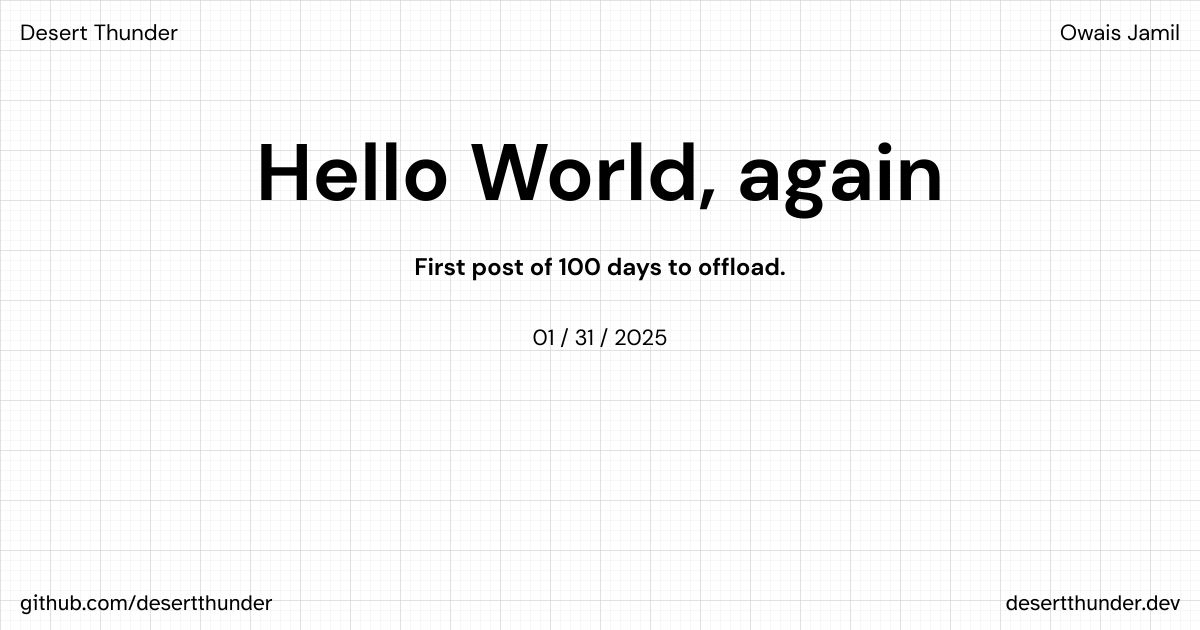
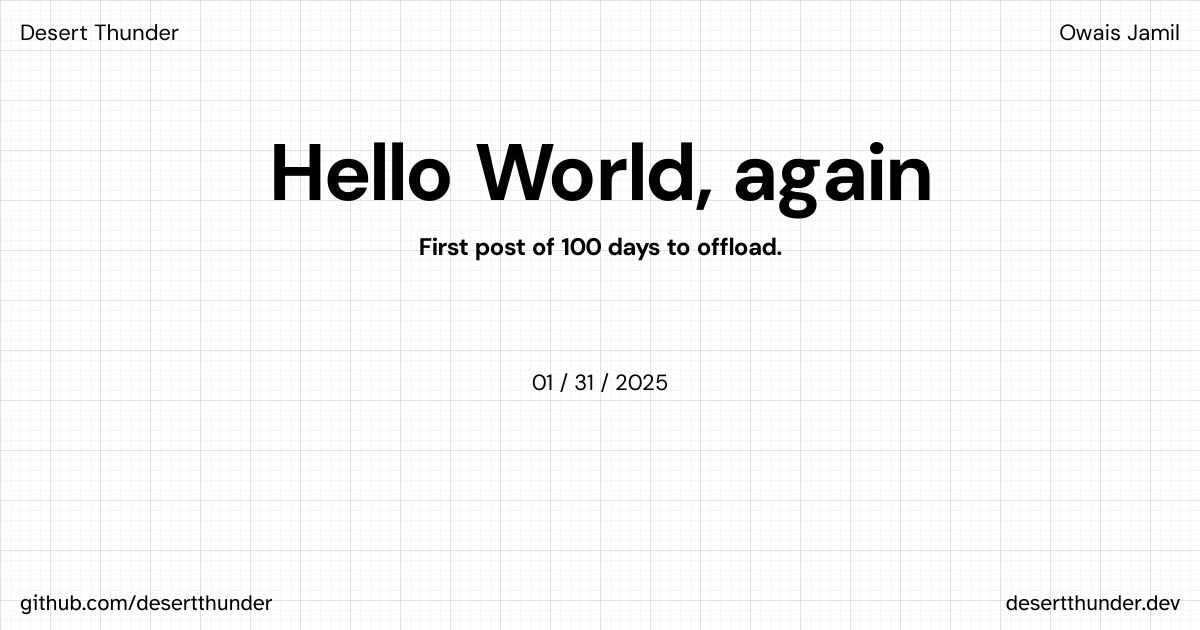
2025-02-08: a post about rust
build: update og image layout

diff --git a/src/assets/css/global/base/fonts.css b/src/assets/css/global/base/fonts.css
@@ -36,15 +36,16 @@
   src:
     local(''),
     url('/assets/fonts/dmsans/dm-sans-latin-400-normal.woff2') format('woff2');
+  unicode-range: U+0000-00FF,U+0131,U+0152-0153,U+02BB-02BC,U+02C6,U+02DA,U+02DC,U+0304,U+0308,U+0329,U+2000-206F,U+20AC,U+2122,U+2191,U+2193,U+2212,U+2215,U+FEFF,U+FFFD;
 }
 
 @font-face {
   font-family: 'DM Sans';
   font-style: normal;
   font-display: swap;
-  /* font-weight: bold */
   font-weight: 700;
   src:
-    local(''),
-    url('/assets/fonts/dmsans/dm-sans-latin-700-normal.woff2') format('woff2');
+  local(''),
+  url('/assets/fonts/dmsans/dm-sans-latin-700-normal.woff2') format('woff2');
+  unicode-range: U+0000-00FF,U+0131,U+0152-0153,U+02BB-02BC,U+02C6,U+02DA,U+02DC,U+0304,U+0308,U+0329,U+2000-206F,U+20AC,U+2122,U+2191,U+2193,U+2212,U+2215,U+FEFF,U+FFFD;
 }

diff --git a/src/posts/2025/2025-02-08-please-clap.md b/src/posts/2025/2025-02-08-please-clap.md
@@ -9,24 +9,45 @@ tags:
     - clap
     - dart
     - flutter
-    - acceptance
+    - productivity
     - react
     - 100daystooffload
-draft: true
+draft: false
 ---
 
-My company uses two languages right now: Dart & Rust. Dart with Flutter for
-mobile applications and Rust for command-line and GUI applications.
+My [company](https://stormlightlabs.org) uses two languages right now: Dart & Rust.
+Dart with Flutter for mobile applications and Rust for command-line and GUI
+applications. Since it is just me for the forseeable future, I've been focusing on
+cross-platform tools that challenge me. It isn't exactly the most practical way
+to ship but I'd like to use company time to build my knowledge and add to my
+toolbox. In the month or so I've been using these two languages I'm reminded that
+it is hard to handle context switching between projects and how much I appreciate
+a team with a more product focused member. The only person that can stop
+[scope creep](https://en.wikipedia.org/wiki/Scope_creep) right now is me.
 
-Rust is harder than Dart & Flutter.
+I have also learned Rust is a harder language to pick up than Dart, and in order
+to really learn Rust, I have to slow down and use the resources available to me.
+The way I learned Go was by doing things I'd usually do in Python with a small
+go script. My approach these days is to "read the manual" and then get started.
+This has been helpful for understanding concepts around Rust's ownership system
+(you can read my notes [here](https://desertthunder.github.io/garden/programming/rust/ownership/)).
+Over time I'm going through each chapter of the Rust book ([print](https://amzn.to/3EvBEey) or [online](https://doc.rust-lang.org/book/)) and taking detailed notes for my digital garden. Hopefully they can help
+you review the material if its hard to grasp or remember. All of that aside, my
+point is that Rust requires that I slow down a little bit and build smaller projects
+while continuing to build features for my main projects. I'm working on a small CLI
+using the [clap](https://docs.rs/clap) package. It's like being a junior engineer
+again. I would power through tasks during the day and in the evenings try to get
+a deeper understanding of what was asked of me.
 
-The *dx* for Flutter is fantastic. I really appreciate the hot reload and ability
-to easily test my application on two platforms.
-
-Dart is a fun and flexible language.
-
-Flutter's material widgets take a lot of the overhead out of the process of
-writing client side code.
+I find Dart to be way easier. Rust is interesting but I'm not having fun quite yet.
+This is likely due to Dart's familiarity and flexibility. Itshares a lot with languages
+used commonly in application development, like ES5 JavaScript and Java.
+Plus the *dx* for Flutter is fantastic. I really appreciate the hot reload and
+ability to easily test my application on both platforms. Sure, you can quickly
+whip up features in a web app, but there's something magical about seeing an app
+hot reload on your phone or in an iOS simulator. I've been using the material
+widgets for [Soulbloom](https://github.com/stormlightlabs/soulbloom), and they
+take a lot of the overhead out of the process of writing client side code.
 
 Learning React was similar for me. I started learning modern web development in
 earnest after I felt that I had a firm grasp of JavaScript. State machine patterns
@@ -34,25 +55,15 @@ were brand new and difficult to wrap my head around. "UI as a function of state[
 is the key pattern that was being discussed and taught as the ecosystem moved
 away from lifecycle methods into hooks.
 
-Dart shares a lot with similar domain languages like ES5 JavaScript and Java.
+Designing an application and mapping out the state is challenging. [Elm's](https://amzn.to/40UD3mi)
+usage of messages[^2] to describe the way an action (sort of like redux action types[^3])
+mutates state is great for building mental models. [Iced](https://iced.rs) uses the Elm architecture,
+which has been great for conceptualizing and writing my application. The limiting
+factor remains my knowledge of Rust.
 
-Designing an application and mapping out the state is challenging. Elm usage of
-messages[^2] to describe the way an action (sort of like redux action types[^3])
-mutates state is great for building mental models.
-
-Iced uses the Elm architecture.
-
-Where I struggle with Rust is conceptualizing lifetimes (and occasionally mixing
-up `str` and `String`).
-
-*How can I best describe a lifetime?*
-
-*Borrowing?*
-
-*Why am I using flutter?*
-
-Finishing projects is hard. Here's another shout out to Blake Watson. He wrote
-a post giving tips on how to do so.
+As I continue to build and learn, I want to express more gratitude towards
+[Blake Watson](https://blakewatson.com). He has a phenomenal post about [finishing](https://blakewatson.com/journal/finishing-side-projects/) side projects. You should give it a read if you struggle
+to finish your projects.
 
 [^1]: <https://docs.flutter.dev/app-architecture/concepts#ui-is-a-function-of-immutable-state>
 [^2]: <https://guide.elm-lang.org/architecture/>
